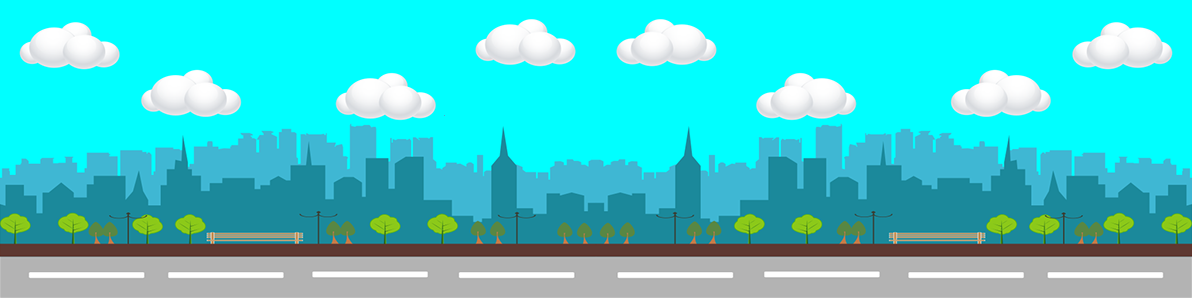
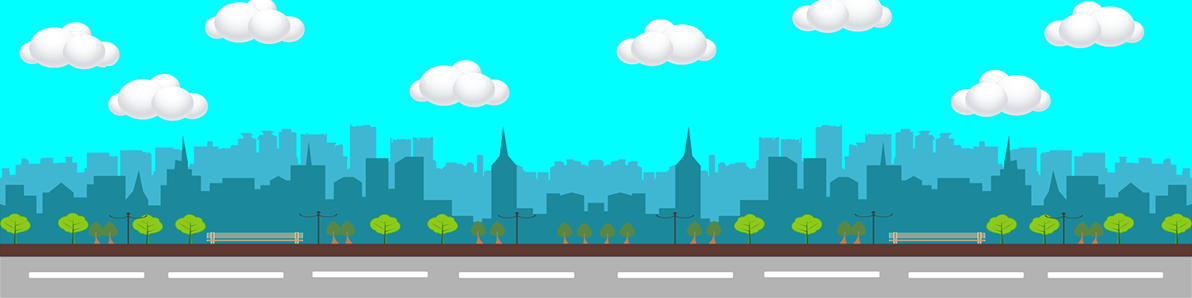
hombre spawning, improved background
-created script Spawn, currently spawns BadHombres
-improved background scrolling animation, now scrolls seamlessly

diff --git a/Trump - An Interactive Experience/Assets/Scripts/Spawn.cs b/Trump - An Interactive Experience/Assets/Scripts/Spawn.cs
@@ -1,0 +1,37 @@
+using UnityEngine;
+using System.Collections;
+[RequireComponent(typeof(Rigidbody2D))]
+
+public class Spawn : MonoBehaviour 
+{
+	public Transform BadHombre;
+	// Use this for initialization
+	void Start () 
+	{
+		InvokeRepeating("spawn", 1, 1F); 
+		// waits 5 seconds, then calls function cowSpawn every .25 seconds
+	}
+
+	void spawn()
+	{
+		int x = Random.Range(0, 100); // random number from 0 to 100
+
+		if (x >= 0 && x <= 35) // 35% chance to spawn cow
+		{
+			GameObject clone;
+			//clone = Instantiate(Resources.Load("cow")) as GameObject;
+			clone = Instantiate(Resources.Load("BadHombre")) as GameObject;
+
+			// spawns a cow to the left of the screen with no rotation
+			// and casts it (prefab) as a GameObject so it can be spawned in the scene
+			// MAKE SURE THERE IS A cow PREFAB IN THE RESOURCES FOLDER
+			// ** MAKE DOUBLE SURE THAT THERE IS IN FACT A RESOURCES FOLDER ** //
+		}
+	}
+	
+	// Update is called once per frame
+	void Update () 
+	{
+	
+	}
+}

diff --git a/Trump - An Interactive Experience/Assets/Scripts/BGScroll.cs b/Trump - An Interactive Experience/Assets/Scripts/BGScroll.cs
@@ -1,21 +1,19 @@
 using UnityEngine;
 using System.Collections;
 
-public class BGScroll : MonoBehaviour
+public class BGScroll : MonoBehaviour 
 {
-	public float scrollSpeed;
-	public float tileSizeX;
-
-	private Vector3 startPosition;
-
-	void Start ()
+	public float speed;
+	// Use this for initialization
+	void Start () 
 	{
-		startPosition = transform.position;
+	
 	}
-
-	void Update ()
+	
+	// Update is called once per frame
+	void Update () 
 	{
-		float newPosition = Mathf.Repeat(Time.time * scrollSpeed, tileSizeX);
-		transform.position = startPosition + Vector3.left * newPosition;
+		Vector2 offset = new Vector2 (Time.time * speed, 0);
+		GetComponent<Renderer>().material.mainTextureOffset = offset;
 	}
 }

diff --git a/Trump - An Interactive Experience/Assets/Scripts/BadHombreMove.cs b/Trump - An Interactive Experience/Assets/Scripts/BadHombreMove.cs
@@ -10,6 +10,7 @@ public class BadHombreMove : MonoBehaviour
 	void Start () 
 	{
 		CanMove = true;
+		MoveSpeed = Random.Range (2, 4);
 	}
 	
 	// Update is called once per frame
